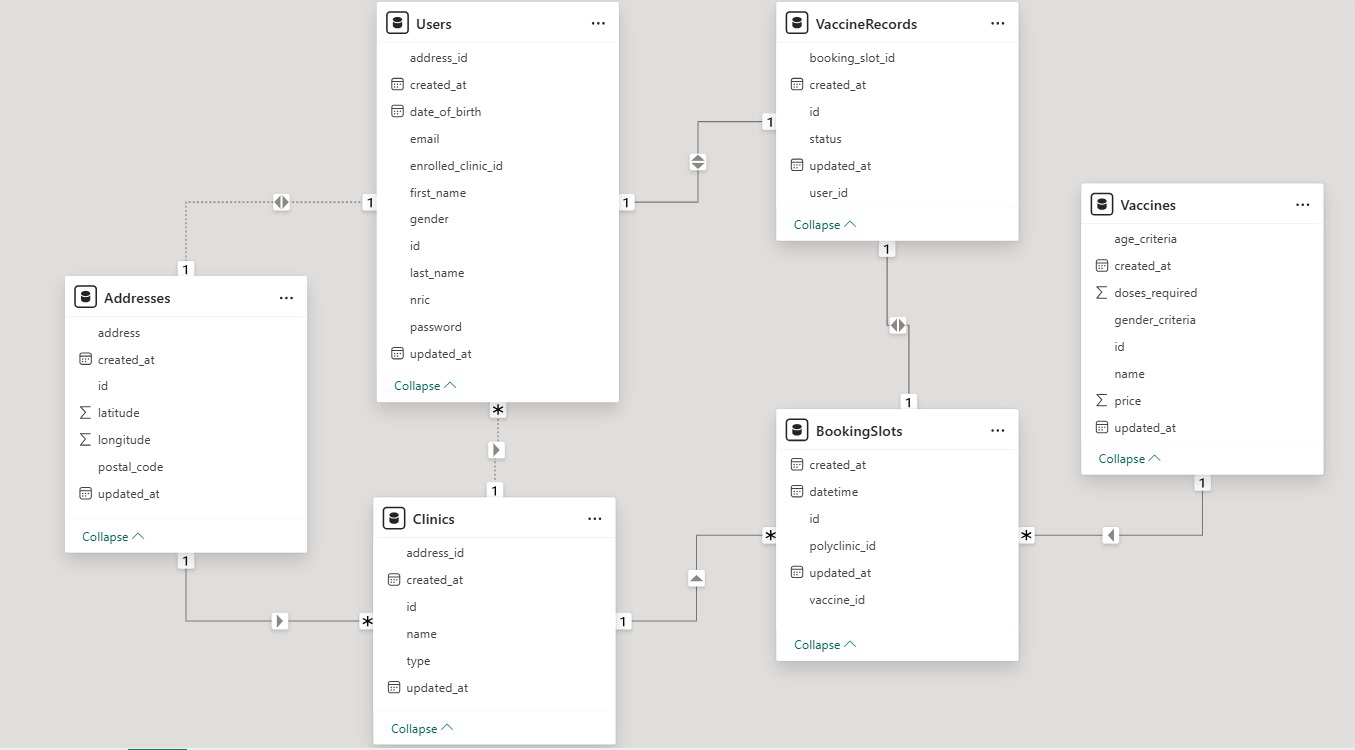
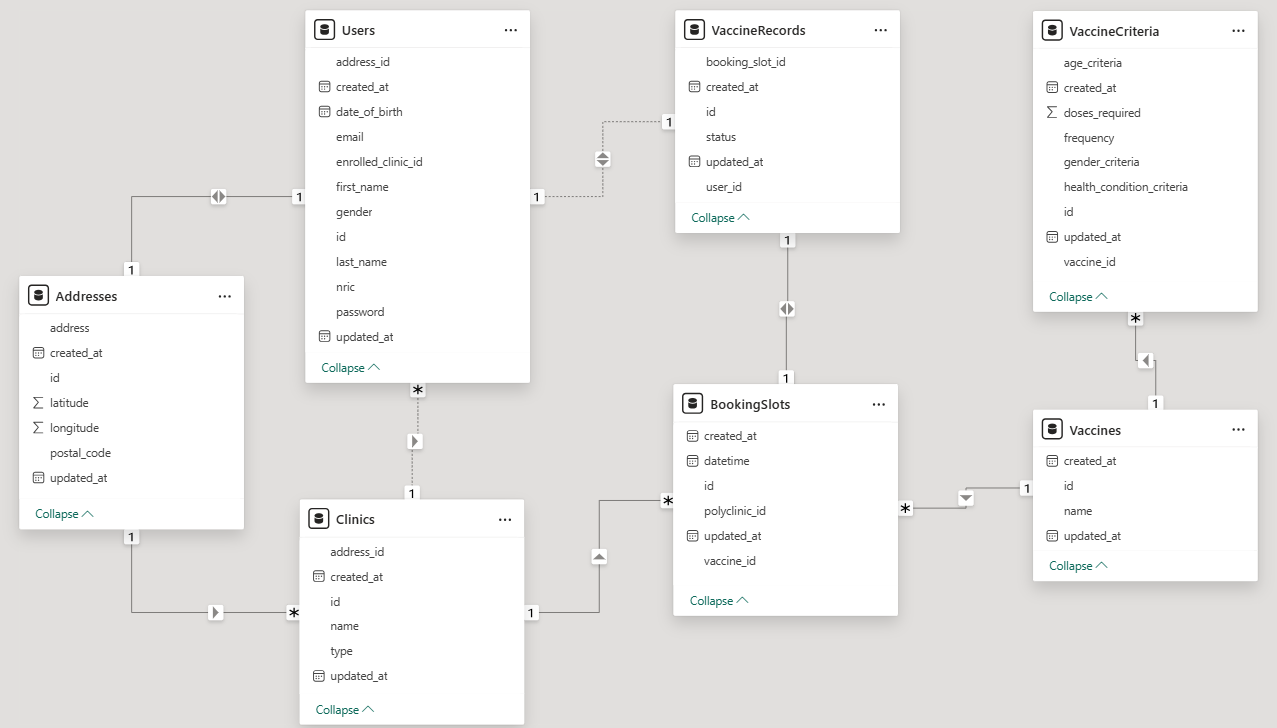
docs: update database_models.md with new vaccinecriteria table

diff --git a/docs/DATABASE_MODELS.md b/docs/DATABASE_MODELS.md
@@ -7,6 +7,7 @@
 - [Clinic](#clinic)
 - [Address](#address)
 - [Vaccine](#vaccine)
+- [VaccineCriteria](#vaccinecriteria)
 - [BookingSlot](#booking-slot)
 - [VaccineRecord](#vaccine-record)
 
@@ -102,17 +103,35 @@ _Entity Relationship Diagram_
 
   - `name` (String): Name of the vaccine.
 
-  - `price` (Float): Price of the vaccine.
+- **Relationships**:
 
-  - `doses_required` (Integer): Number of doses required for the vaccine.
+  - A vaccine has a one-to-many relationship with the `BookingSlot` table via the `vaccine_id` foreign key.
+
+  - It also has a one-to-many relationship with the `VaccineCriteria` table via the `vaccine_id` foreign key.
+
+## VaccineCriteria <a id="vaccinecriteria"></a>
+
+- **Table Name**: `VaccineCriteria`
+
+- **Columns**:
+
+  - `id` (String, primary key): Unique identifier for each vaccine criteria.
+
+  - `vaccine_id` (String, foreign key): ID of the vaccine associated with the vaccine criteria.
 
   - `age_criteria` (String): Age criteria for the vaccine.
 
   - `gender_criteria` (String): Gender criteria for the vaccine.
 
+  - `health_condition_criteria` (String): Health condition criteria for the vaccine.
+
+  - `doses_required` (Integer): Number of doses required for the vaccine.
+
+  - `frequency` (String): Frequency of doses required for the vaccine.
+
 - **Relationships**:
 
-  - A vaccine has a one-to-many relationship with the `BookingSlot` table via the `vaccine_id` foreign key.
+  - A vaccine criteria has a many-to-one relationship with the `Vaccines` table via the `vaccine_id` foreign key.
 
 ## BookingSlot <a id="booking-slot"></a>
 
